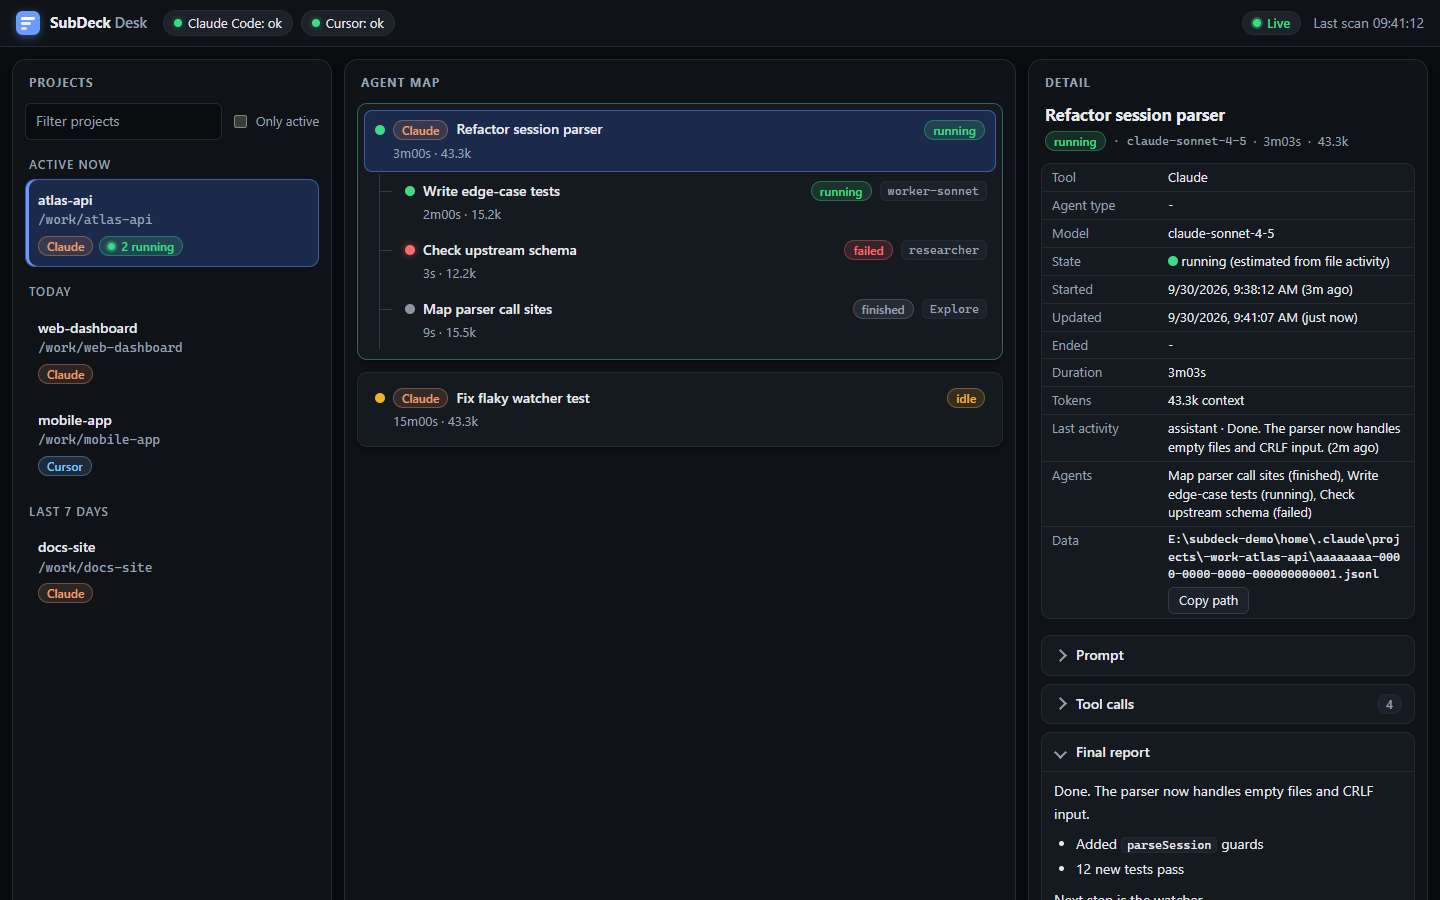
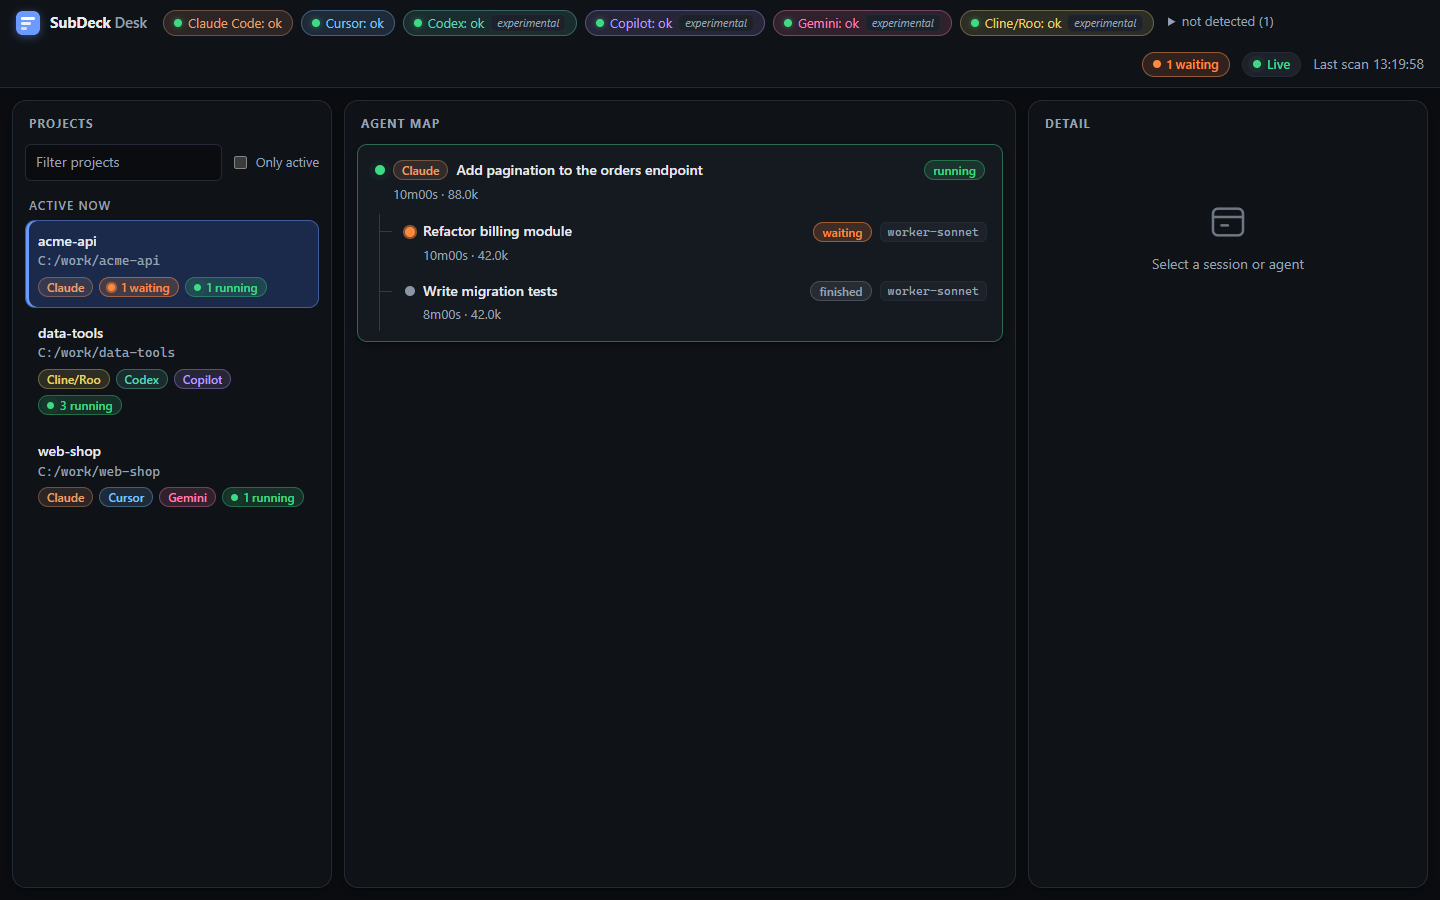
desk v0.3.1: register Codex/Copilot/Gemini/Cline/OpenCode adapters, waiting counts, lock state source, full model ids (Desk + status.sh MODEL column), tool badges and experimental tags, docs and screenshots; plugin 0.3.1

diff --git a/desk/public/style.css b/desk/public/style.css
@@ -5,7 +5,7 @@
   --border: #242a35; --border-strong: #323a49;
   --text: #e7eaf0; --muted: #98a2b3; --accent: #6b9bff; --focus: #7fa8ff;
   --waiting: #ff8a3d; --running: #3ddc84; --idle: #f0b429; --finished: #8b95a5; --failed: #ff6b6b; --stale: #8b95a5;
-  --claude: #e8a06e; --cursor: #7dc4ff;
+  --claude: #e8a06e; --cursor: #7dc4ff; --codex: #5fd4b8; --copilot: #b79cff; --gemini: #ff7eb6; --cline: #e6d36a; --opencode: #8fd16a;
   --r-sm: 6px; --r: 10px; --r-lg: 14px;
   --s1: 4px; --s2: 8px; --s3: 12px; --s4: 16px; --s5: 24px;
   --shadow: 0 1px 2px rgba(0,0,0,.4), 0 4px 14px rgba(0,0,0,.25);
@@ -21,7 +21,7 @@
     --border: #dfe3ea; --border-strong: #c9d0db;
     --text: #12161d; --muted: #566073; --accent: #2456d6; --focus: #2456d6;
     --waiting: #b34700; --running: #147a45; --idle: #8f5f00; --finished: #5d6675; --failed: #c1271f; --stale: #5d6675;
-    --claude: #a4531a; --cursor: #0b63a8;
+    --claude: #a4531a; --cursor: #0b63a8; --codex: #0d7a63; --copilot: #6a3fc9; --gemini: #b3236b; --cline: #7a6a00; --opencode: #3f7a17;
     --shadow: 0 1px 2px rgba(16,24,40,.06), 0 2px 8px rgba(16,24,40,.06);
     --shadow-hover: 0 2px 4px rgba(16,24,40,.08), 0 8px 20px rgba(16,24,40,.10);
   }
@@ -39,11 +39,15 @@ h1, h2, h3 { font-weight: 650; }
 .sources { display: flex; gap: var(--s2); flex-wrap: wrap; }
 .status { margin-left: auto; display: flex; gap: var(--s3); align-items: center; }
 .badge { display: inline-flex; gap: 6px; align-items: center; padding: 2px 10px; border-radius: 999px; background: var(--raised); border: 1px solid var(--border); font-size: 13px; line-height: 20px; white-space: nowrap; }
+.badge.src.tool-claude-code, .badge.src.tool-cursor, .badge.src.tool-codex, .badge.src.tool-copilot, .badge.src.tool-gemini, .badge.src.tool-cline, .badge.src.tool-opencode { border-color: color-mix(in srgb, currentColor 35%, var(--border)); }
 .badge.src::before { content: ""; width: 8px; height: 8px; border-radius: 50%; background: var(--muted); flex: none; }
 .badge.ok::before { background: var(--running); box-shadow: 0 0 6px color-mix(in srgb, var(--running) 60%, transparent); }
 .badge.degraded::before { background: var(--idle); }
 .badge.error::before { background: var(--failed); }
-.badge.absent { color: var(--muted); }
+.tag.exp { font-size: 11px; line-height: 16px; padding: 0 6px; font-style: italic; }
+.absent-sources { font-size: 13px; color: var(--muted); }
+.absent-sources summary { cursor: pointer; padding: 2px 6px; }
+.absent-sources[open] { display: flex; gap: var(--s2); align-items: center; }
 .live { display: inline-flex; align-items: center; gap: 6px; font-size: 13px; font-weight: 600; padding: 2px 10px; border-radius: 999px; border: 1px solid var(--border); background: var(--raised); }
 .live::before { content: ""; width: 8px; height: 8px; border-radius: 50%; background: currentColor; }
 .live.on { color: var(--running); }
@@ -76,6 +80,11 @@ h1, h2, h3 { font-weight: 650; }
 .badge.tool { padding: 0 8px; font-size: 12px; font-weight: 600; line-height: 18px; }
 .badge.tool-claude-code { color: var(--claude); background: color-mix(in srgb, var(--claude) 14%, transparent); border-color: color-mix(in srgb, var(--claude) 35%, transparent); }
 .badge.tool-cursor { color: var(--cursor); background: color-mix(in srgb, var(--cursor) 14%, transparent); border-color: color-mix(in srgb, var(--cursor) 35%, transparent); }
+.badge.tool-codex { color: var(--codex); background: color-mix(in srgb, var(--codex) 14%, transparent); border-color: color-mix(in srgb, var(--codex) 35%, transparent); }
+.badge.tool-copilot { color: var(--copilot); background: color-mix(in srgb, var(--copilot) 14%, transparent); border-color: color-mix(in srgb, var(--copilot) 35%, transparent); }
+.badge.tool-gemini { color: var(--gemini); background: color-mix(in srgb, var(--gemini) 14%, transparent); border-color: color-mix(in srgb, var(--gemini) 35%, transparent); }
+.badge.tool-cline { color: var(--cline); background: color-mix(in srgb, var(--cline) 14%, transparent); border-color: color-mix(in srgb, var(--cline) 35%, transparent); }
+.badge.tool-opencode { color: var(--opencode); background: color-mix(in srgb, var(--opencode) 14%, transparent); border-color: color-mix(in srgb, var(--opencode) 35%, transparent); }
 .pill { display: inline-flex; align-items: center; gap: 6px; padding: 0 8px; border-radius: 999px; font-size: 12px; font-weight: 600; line-height: 18px; }
 .pill.waiting { color: var(--waiting); background: color-mix(in srgb, var(--waiting) 18%, transparent); border: 1px solid color-mix(in srgb, var(--waiting) 50%, transparent); }
 .pill.running { color: var(--running); background: color-mix(in srgb, var(--running) 15%, transparent); border: 1px solid color-mix(in srgb, var(--running) 35%, transparent); }

diff --git a/desk/public/app.js b/desk/public/app.js
@@ -28,7 +28,12 @@ function updateWaiting() {
   b.textContent = total > 0 ? `${total} waiting` : '';
   b.title = total > 0 ? 'Sessions or agents blocked on your input (permission, question or plan approval)' : '';
 }
-function toolBadge(tool) { return el('span', `badge tool tool-${tool}`, TOOL_BADGE[tool] || tool); }
+function toolBadge(tool) {
+  const b = el('span', `badge tool tool-${tool}`, TOOL_BADGE[tool] || tool);
+  const src = S.sources.find(x => x.id === tool);
+  if (src && src.experimental) b.title = `${src.label}: experimental support (parts of this tool's data format are unverified)`;
+  return b;
+}
 
 // Rebuilding a list drops keyboard focus; remember the focused item's id and restore it (only if it was focused).
 function keepFocus(box, fn) {
@@ -42,11 +47,19 @@ function keepFocus(box, fn) {
 function renderSources() {
   const box = $('sources');
   box.replaceChildren();
-  for (const s of S.sources) {
-    const cls = !s.detected ? 'absent' : s.health;
-    const b = el('span', `badge src ${cls}`, `${s.label}: ${!s.detected ? 'not found' : s.health}`);
-    b.title = `${s.counts.projects} projects, ${s.counts.sessions} sessions, ${s.counts.running} running${s.lastError ? `\n${s.lastError}` : ''}`;
+  for (const s of S.sources.filter(x => x.detected)) {
+    const b = el('span', `badge src ${s.health} tool-${s.id}`);
+    b.append(document.createTextNode(`${s.label}: ${s.health}`));
+    if (s.experimental) b.append(el('span', 'tag exp', 'experimental'));
+    const extra = [s.experimental ? "Experimental adapter: some of this tool's data format is unverified" : '', s.lastError || ''].filter(Boolean);
+    b.title = [`${s.counts.projects} projects, ${s.counts.sessions} sessions, ${s.counts.running} running${s.counts.waiting ? `, ${s.counts.waiting} waiting` : ''}`, ...extra].join('\n');
     box.append(b);
+  }
+  const absent = S.sources.filter(x => !x.detected);
+  if (absent.length) {
+    const d = el('details', 'absent-sources');
+    d.append(el('summary', null, `not detected (${absent.length})`), el('span', 'muted', absent.map(x => x.label).join(', ')));
+    box.append(d);
   }
   const last = S.sources.map(s => s.lastScanAt).filter(Boolean).sort().pop();
   $('lastScan').textContent = last ? `Last scan ${formatClock(last)}` : '';

diff --git a/desk/public/format.js b/desk/public/format.js
@@ -1,8 +1,8 @@
 // Pure display helpers shared by the browser UI and Node tests. No DOM access here.
 
 export const STATE_LABEL = { waiting: 'waiting', running: 'running', idle: 'idle', finished: 'finished', failed: 'failed', stale: 'stale?', unknown: 'unknown' };
-export const SOURCE_LABEL = { hook: 'from hook', field: 'from tool status', mtime: 'estimated from file activity', none: 'unknown' };
-export const TOOL_BADGE = { 'claude-code': 'Claude', cursor: 'Cursor' };
+export const SOURCE_LABEL = { hook: 'from hook', field: 'from tool status', lock: 'from lock file', mtime: 'estimated from file activity', none: 'unknown' };
+export const TOOL_BADGE = { 'claude-code': 'Claude', cursor: 'Cursor', codex: 'Codex', copilot: 'Copilot', gemini: 'Gemini', cline: 'Cline/Roo', opencode: 'OpenCode' };
 export const GROUP_ORDER = ['Active now', 'Today', 'Last 7 days', 'Older'];
 
 const pad = n => String(n).padStart(2, '0');

diff --git a/docs/USER_GUIDE.md b/docs/USER_GUIDE.md
@@ -2,7 +2,7 @@
 
 ## 1. What SubDeck is
 
-SubDeck is a manager + sub-agents toolkit for Claude Code: rules, agents and skills that let one session delegate work to worker, researcher and verifier agents. `/subdeck:status` shows the live agent table in the terminal. SubDeck Desk is a local web dashboard that shows the agents of Claude Code and Cursor, like the Claude Code "Agent map" but outside the IDE.
+SubDeck is a manager + sub-agents toolkit for Claude Code: rules, agents and skills that let one session delegate work to worker, researcher and verifier agents. `/subdeck:status` shows the live agent table in the terminal. SubDeck Desk is a local web dashboard that shows the agents of Claude Code, Cursor and several other tools, like the Claude Code "Agent map" but outside the IDE.
 
 ## 2. Requirements
 
@@ -46,7 +46,7 @@ Add `.subdeck/` to your project's `.gitignore`; the hooks write agent events the
 |---|---|---|
 | `/subdeck:orchestrator` | Loads the manager rulebook: delegate, do not do the work yourself. | `/subdeck:orchestrator` |
 | `/subdeck:task` | Launches an agent (`worker-sonnet`, `worker-opus`, `researcher`, `verifier`, or the `*-current` variants) with a task text or task file. | `/subdeck:task researcher find where login errors are handled` |
-| `/subdeck:status` | Prints the live table of running and recently finished sub-agents. `--all` shows more. | `/subdeck:status --all` |
+| `/subdeck:status` | Prints the live table of running and recently finished sub-agents, including the real model id (MODEL column; on narrow terminals ACTIVITY is dropped first, then MODEL). `--all` shows more. | `/subdeck:status --all` |
 | `/subdeck:pr` | Pre-push checklist and approval gate. It never pushes by itself. | `/subdeck:pr release notes` |
 | `/subdeck:desk` | Starts Desk (or prints its URL if it is already running). | `/subdeck:desk` |
 | `/subdeck:desk stop` | Stops Desk. `status` prints the URL or says it is not running. | `/subdeck:desk stop` |
@@ -63,6 +63,18 @@ Desk serves on `http://127.0.0.1:4917` by default (it falls back to 4918-4936 if
 
 **Open it in VS Code.** Command Palette, then "Simple Browser: Show", then paste `http://127.0.0.1:4917` (or the URL that `/subdeck:desk` printed).
 
+**Supported tools.** Claude Code and Cursor are supported. Codex, Copilot (CLI and VS Code Chat), Gemini CLI, Cline/Roo and OpenCode are **experimental**: they are marked "experimental" in the header, and some of their data formats are not verified on every platform. Tools that are not installed are hidden behind a collapsed "not detected" hint. Each tool has its own badge colour.
+
+| Tool | "Running" means |
+|---|---|
+| Claude Code | A hook saw an agent start with no stop, or the transcript changed in the last 2 minutes. |
+| Cursor | The composer is generating, or its data changed in the last 2 minutes. |
+| Codex | A turn is open in the rollout file and it was updated in the last 5 minutes. |
+| Copilot | CLI: an open turn while the session's lock file belongs to a live process. VS Code Chat: recent file activity. |
+| Gemini CLI | The session file changed in the last 2 minutes. |
+| Cline/Roo | The task is not completed and its data changed in the last 2 minutes. |
+| OpenCode | An assistant message is still open and the session was updated in the last 5 minutes. |
+
 **Three panes.**
 
 - **Projects** (left): projects with recent sessions; filter by name, or tick "Only active".
@@ -74,12 +86,13 @@ Desk serves on `http://127.0.0.1:4917` by default (it falls back to 4918-4936 if
 | State | Colour | Meaning |
 |---|---|---|
 | 🟢 running | green | Activity in the last 2 minutes, or a hook saw a start with no stop. |
+| 🟠 waiting | orange | Blocked on you: a permission prompt, a question or a plan approval. Waiting sessions sort first, and the header shows how many are waiting in total. |
 | 🟡 idle | amber | Last activity within 30 minutes. |
 | ⚪ finished | grey | Older, or the agent explicitly completed. |
 | 🔴 failed | red | Explicit failure or an API error. |
 | ⚪❔ stale | grey with `?` | A start was seen but no stop, and the file has been untouched for 5 minutes. State is uncertain. |
 
-Each agent also shows where its state came from. "Estimated from file activity" means there was no hook or explicit status, so Desk guessed from how recently the session file changed.
+Each agent also shows where its state came from. "Estimated from file activity" means there was no hook or explicit status, so Desk guessed from how recently the session file changed. "From lock file" (Copilot CLI) means the session's lock file is held by a live process.
 
 **Agent content.** Click an agent to open it. The detail pane has three sections: **Prompt** (what it was asked), **Tool calls** (tool name and target), and **Final report** (its last message).
 
@@ -128,6 +141,8 @@ Note: the agent prompts were tuned on Claude. Behaviour on other models is untes
 **Desk says it is already running.** Only one instance runs at a time. Open the printed URL, or run `/subdeck:desk stop` and start again.
 
 **`claude` not found.** Add the folder that contains the Claude Code executable to your `PATH`, then open a new terminal.
+
+**A tool is missing in the header.** Tools that Desk cannot find are listed under "not detected". Codex, Copilot, Gemini, Cline/Roo and OpenCode read their standard data folders; if yours live elsewhere see the environment overrides in [desk/README.md](../desk/README.md). OpenCode and Codex also need Node 22.13 or newer.
 
 **Cursor shows nothing.** Check that Node is 22.13 or newer (`node --version`) and that Cursor has been used on this machine, so its data directory exists.
 

diff --git a/desk/README.md b/desk/README.md
@@ -1,6 +1,6 @@
 # SubDeck Desk
 
-A local, read-only web dashboard that shows what your AI coding agents are doing: projects, sessions, sub-agents, state, and token usage. It reads the session data that Claude Code and Cursor already write on your machine. No dependencies, no build step.
+A local, read-only web dashboard that shows what your AI coding agents are doing: projects, sessions, sub-agents, state, and token usage. It reads the session data that Claude Code, Cursor, Codex, Copilot, Gemini CLI, Cline/Roo and OpenCode already write on your machine. No dependencies, no build step.
 
 ## Run
 
@@ -8,7 +8,7 @@ A local, read-only web dashboard that shows what your AI coding agents are doing
 node desk/server.mjs [--port N] [--days N] [--open] [--no-content]
 ```
 
-- Needs Node 20 or newer; Cursor support needs Node 22.13+ (built-in `node:sqlite`).
+- Needs Node 20 or newer; Cursor, Codex and OpenCode (SQLite) need Node 22.13+ (built-in `node:sqlite`).
 - Binds `127.0.0.1` only. Default port 4917, falling back to 4918-4936; `--port N` is exact (exit 1 if busy); `--port 0` picks any free port.
 - `--days N` sets the retention window (1-365, default 14). `--open` opens the browser. `--no-content` disables the agent content endpoint.
 - A second start prints the URL of the running instance. Runtime file: `~/.subdeck/desk.json` (`pid`, `port`, `startedAt`, `version`).
@@ -18,10 +18,19 @@ node desk/server.mjs [--port N] [--days N] [--open] [--no-content]
 
 | Tool | Location | Notes |
 |---|---|---|
-| Claude Code | `~/.claude/projects/` transcripts, plus `.subdeck/` hook events | Sub-agents are read from `subagents/`. |
+| Claude Code | `~/.claude/projects/` transcripts, plus `.subdeck/` hook events | Sub-agents are read from `subagents/`. The model column shows the real id from the last assistant record. |
 | Cursor | `state.vscdb` under the Cursor user directory | Opened read-only; retried when Cursor holds a lock. |
+| Codex (experimental) | `$CODEX_HOME` (default `~/.codex`): `state_N.sqlite` index and `sessions/` rollout files | Needs Node 22.13+. Rollout event names and sub-agent status values are unverified. |
+| Copilot (experimental) | CLI: `$COPILOT_HOME/session-state` (default `~/.copilot`); VS Code Chat: `chatSessions` under the VS Code user directory | A live `inuse` lock file marks running CLI sessions (state source `lock`). VS Code Chat gives title, times and request count only. |
+| Gemini CLI (experimental) | `$GEMINI_CLI_HOME/.gemini/tmp/<project>/chats/` (default `~/.gemini`) | Sub-agent parent links are inferred. |
+| Cline/Roo (experimental) | `globalStorage` of the Cline and Roo extensions in VS Code family editors | Title is the first task text. Roo child tasks link to their parent. |
+| OpenCode (experimental) | `$XDG_DATA_HOME/opencode` (default `~/.local/share/opencode`): `opencode.db`, older `storage/` | Needs Node 22.13+ for the database. |
 
-Environment overrides: `SUBDECK_CLAUDE_PROJECTS_DIR`, `SUBDECK_CURSOR_USER_DIR`, `SUBDECK_DISABLE` (comma-separated tool names).
+Tools that are not installed are hidden in the UI header (listed under a collapsed "not detected" hint). Experimental adapters carry an `experimental` flag in `/api/sources` and an "experimental" tag in the UI.
+
+Tool colours: Claude orange, Cursor blue, Codex teal, Copilot violet, Gemini pink, Cline/Roo yellow, OpenCode green.
+
+Environment overrides: `SUBDECK_CLAUDE_PROJECTS_DIR`, `SUBDECK_CURSOR_USER_DIR`, `SUBDECK_GEMINI_DIR`, `SUBDECK_DISABLE` (comma-separated tool names, e.g. `codex,gemini`), plus the tools' own variables `CODEX_HOME`, `GEMINI_CLI_HOME`, `COPILOT_HOME`, `XDG_DATA_HOME`, `XDG_CONFIG_HOME`, `APPDATA`.
 
 ## Privacy
 
@@ -29,7 +38,7 @@ Lists, snapshots and live updates carry only titles (up to 120 characters), a sh
 
 ## States
 
-`running` (activity within 2 minutes, or a hook Start without Stop), `idle` (within 30 minutes), `finished` (older, or an explicit completion), `failed` (explicit failure or API error), `stale` (hook Start without Stop and file untouched for 5 minutes), `unknown`. The state source is shown per session (`hook`, `field`, `mtime`, or `none`).
+`running` (activity within 2 minutes, or a hook Start without Stop), `idle` (within 30 minutes), `finished` (older, or an explicit completion), `failed` (explicit failure or API error), `stale` (hook Start without Stop and file untouched for 5 minutes), `unknown`. `waiting` means the session or agent is blocked on you (permission prompt, question, plan approval); it is counted per project (`waitingCount`) and per source (`counts.waiting`), waiting projects sort first, and the header badge sums them. The state source is shown per session (`hook`, `field`, `lock` (Copilot CLI lock file), `mtime`, or `none`). Codex and OpenCode treat an open turn as running only while the session was updated within the 5-minute stale window.
 
 ## Tests
 

diff --git a/README.md b/README.md
@@ -7,7 +7,7 @@
 [![GitHub](https://img.shields.io/badge/GitHub-emiirhandemirci-181717?logo=github&logoColor=white)](https://github.com/emiirhandemirci)
 [![LinkedIn](https://img.shields.io/badge/LinkedIn-Emirhan_Demirci-0A66C2?logo=linkedin&logoColor=white)](https://www.linkedin.com/in/emirhan-demirci-/)
 
-![version](https://img.shields.io/badge/version-0.2.1-6366f1)
+![version](https://img.shields.io/badge/version-0.3.1-6366f1)
 ![node](https://img.shields.io/badge/node-%E2%89%A5%2022.13-339933?logo=nodedotjs&logoColor=white)
 ![plugin](https://img.shields.io/badge/Claude_Code-plugin-d97757)
 ![deps](https://img.shields.io/badge/dependencies-zero-22c55e)
@@ -40,7 +40,7 @@ Restart Claude Code, then try `/subdeck:status` or `/subdeck:desk`.
     <td width="33%" valign="top">📟<br><b>Live status table</b><br>Running and finished agents in the terminal: <code>/subdeck:status</code></td>
   </tr>
   <tr>
-    <td valign="top">🖥<br><b>SubDeck Desk</b><br>Local web dashboard for Claude Code and Cursor agents. Read-only, <code>127.0.0.1</code> only.</td>
+    <td valign="top">🖥<br><b>SubDeck Desk</b><br>Local web dashboard for Claude Code, Cursor, Codex, Copilot, Gemini, Cline/Roo and OpenCode sessions. Read-only, <code>127.0.0.1</code> only.</td>
     <td valign="top">🚦<br><b>Push gate</b><br>Pre-push checklist that asks first. It never pushes by itself. <code>/subdeck:pr</code></td>
     <td valign="top">🪶<br><b>Zero dependencies</b><br>Bash and awk for the plugin, plain Node for Desk. No jq, no npm install.</td>
   </tr>
@@ -55,7 +55,7 @@ Restart Claude Code, then try `/subdeck:status` or `/subdeck:desk`.
   </picture>
 </p>
 
-Projects on the left, the agent tree in the middle, details on the right. Start it with `/subdeck:desk` or `node desk/server.mjs`. Details in [desk/README.md](desk/README.md).
+Projects on the left, the agent tree in the middle, details on the right. Start it with `/subdeck:desk` or `node desk/server.mjs`. Claude Code and Cursor are supported; Codex, Copilot (CLI and VS Code Chat), Gemini CLI, Cline/Roo and OpenCode are **experimental** (marked in the header). Sessions that are blocked on you (permission prompt, question, plan approval) show as **waiting** and sort first. Details in [desk/README.md](desk/README.md).
 
 <details>
 <summary><b>Agent detail</b>: prompt, tool calls, final report</summary>
@@ -108,7 +108,7 @@ flowchart LR
 |---|---|
 | `/subdeck:orchestrator` | Loads the manager rulebook. |
 | `/subdeck:task` | Launches an agent directly, without the manager window. |
-| `/subdeck:status` | Live agent table (`--all` includes finished agents). |
+| `/subdeck:status` | Live agent table with the real model id per agent (`--all` includes finished agents). |
 | `/subdeck:desk` | Starts (or prints the URL of) Desk; `stop` stops it. |
 | `/subdeck:pr` | Pre-push checklist and approval gate. |
 
@@ -139,7 +139,7 @@ Check the manifests with `claude plugin validate .` and `claude plugin validate 
 
 ## Status
 
-v0.1 (agents, hooks, status renderer, skills, templates) is implemented and was run end to end. Desk v0.2 (monitoring only) is implemented. Roadmap and decision records live in `internal/design.md` and `internal/decisions/` (private, maintainers only).
+v0.1 (agents, hooks, status renderer, skills, templates) is implemented and was run end to end. Desk v0.3 (monitoring only, seven tools, waiting state) is implemented. Roadmap and decision records live in `internal/design.md` and `internal/decisions/` (private, maintainers only).
 
 ## License
 
